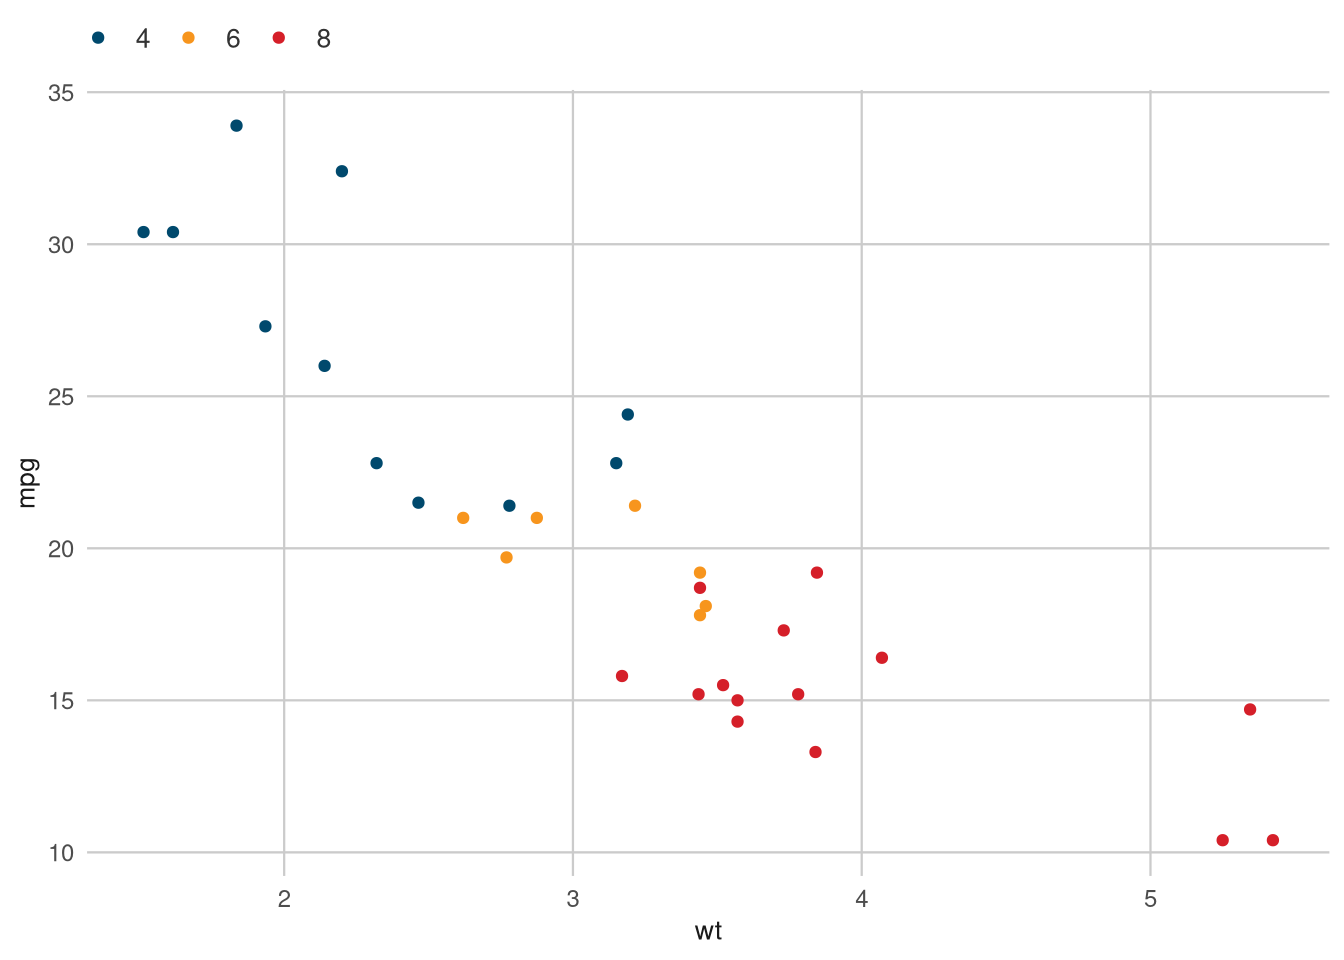
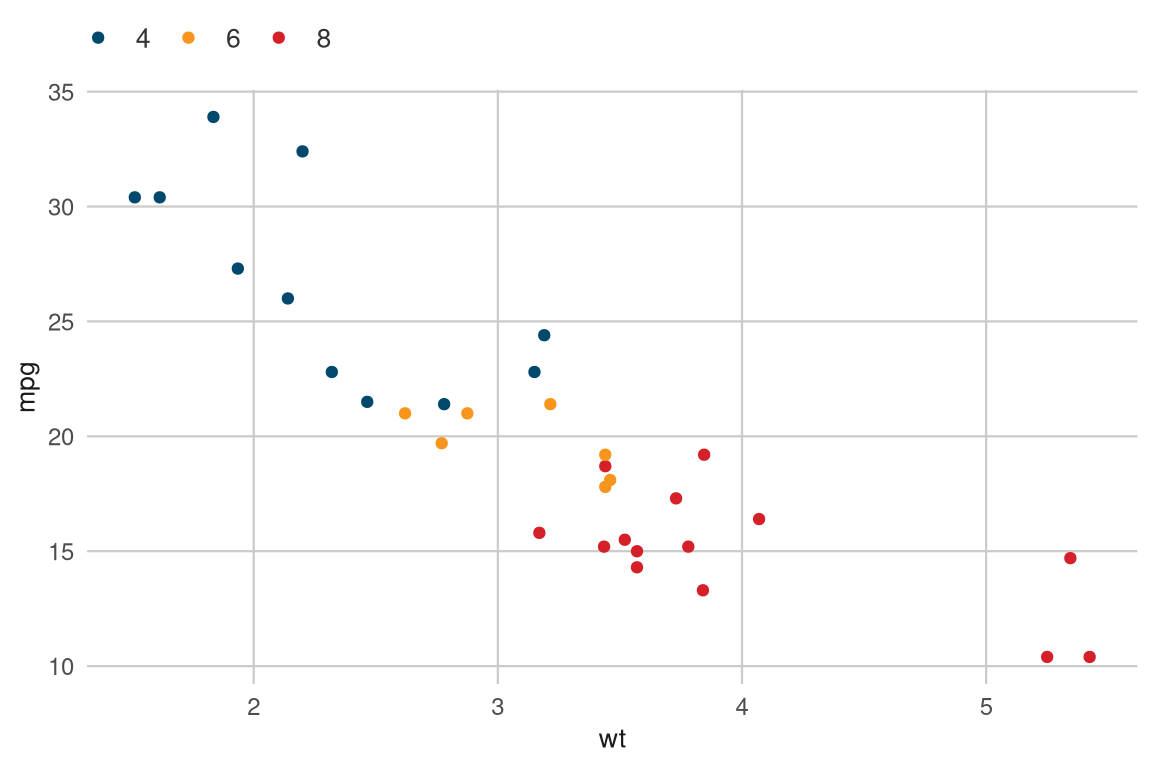
Edita os parametros do htmk

diff --git a/template.html b/template.html
@@ -21,40 +21,6 @@ ul.task-list li input[type="checkbox"] {
   margin: 0 0.8em 0.2em -1em; /* quarto-specific, see https://github.com/quarto-dev/quarto-cli/issues/4556 */ 
   vertical-align: middle;
 }
-/* CSS for syntax highlighting */
-pre > code.sourceCode { white-space: pre; position: relative; }
-pre > code.sourceCode > span { display: inline-block; line-height: 1.25; }
-pre > code.sourceCode > span:empty { height: 1.2em; }
-.sourceCode { overflow: visible; }
-code.sourceCode > span { color: inherit; text-decoration: inherit; }
-div.sourceCode { margin: 1em 0; }
-pre.sourceCode { margin: 0; }
-@media screen {
-div.sourceCode { overflow: auto; }
-}
-@media print {
-pre > code.sourceCode { white-space: pre-wrap; }
-pre > code.sourceCode > span { text-indent: -5em; padding-left: 5em; }
-}
-pre.numberSource code
-  { counter-reset: source-line 0; }
-pre.numberSource code > span
-  { position: relative; left: -4em; counter-increment: source-line; }
-pre.numberSource code > span > a:first-child::before
-  { content: counter(source-line);
-    position: relative; left: -1em; text-align: right; vertical-align: baseline;
-    border: none; display: inline-block;
-    -webkit-touch-callout: none; -webkit-user-select: none;
-    -khtml-user-select: none; -moz-user-select: none;
-    -ms-user-select: none; user-select: none;
-    padding: 0 4px; width: 4em;
-  }
-pre.numberSource { margin-left: 3em;  padding-left: 4px; }
-div.sourceCode
-  {   }
-@media screen {
-pre > code.sourceCode > span > a:first-child::before { text-decoration: underline; }
-}
 </style>
 
 
@@ -108,7 +74,7 @@ pre > code.sourceCode > span > a:first-child::before { text-decoration: underlin
     <div>
     <div class="quarto-title-meta-heading">Data de Publicação</div>
     <div class="quarto-title-meta-contents">
-      <p class="date">3 de outubro de 2023</p>
+      <p class="date">5 de outubro de 2023</p>
     </div>
   </div>
   
@@ -125,15 +91,13 @@ pre > code.sourceCode > span > a:first-child::before { text-decoration: underlin
 <h3 class="anchored" data-anchor-id="heading-2">Heading 2</h3>
 <p>lorem ipsum dolor sit amet consectetur adipiscing elit sed do eiusmod tempor incididunt ut labore et dolore magna aliqua ut enim ad minim veniam quis nostrud exercitation ullamco laboris nisi ut aliquip ex ea commodo consequat dolore eu fugiat nulla pariatur.</p>
 <div class="cell">
-<div class="sourceCode cell-code" id="cb1"><pre class="sourceCode r code-with-copy"><code class="sourceCode r"><span id="cb1-1"><a href="#cb1-1" aria-hidden="true" tabindex="-1"></a><span class="fu">library</span>(ggplot2)</span>
-<span id="cb1-2"><a href="#cb1-2" aria-hidden="true" tabindex="-1"></a><span class="fu">library</span>(onsvplot)</span>
-<span id="cb1-3"><a href="#cb1-3" aria-hidden="true" tabindex="-1"></a></span>
-<span id="cb1-4"><a href="#cb1-4" aria-hidden="true" tabindex="-1"></a><span class="fu">ggplot</span>(mtcars, <span class="fu">aes</span>(wt, mpg)) <span class="sc">+</span></span>
-<span id="cb1-5"><a href="#cb1-5" aria-hidden="true" tabindex="-1"></a>  <span class="fu">geom_point</span>(<span class="fu">aes</span>(<span class="at">color =</span> <span class="fu">factor</span>(cyl))) <span class="sc">+</span></span>
-<span id="cb1-6"><a href="#cb1-6" aria-hidden="true" tabindex="-1"></a>  <span class="fu">theme_onsv</span>() <span class="sc">+</span></span>
-<span id="cb1-7"><a href="#cb1-7" aria-hidden="true" tabindex="-1"></a>  <span class="fu">scale_discrete_onsv</span>()</span></code><button title="Copiar para a área de transferência" class="code-copy-button"><i class="bi"></i></button></pre></div>
 <div class="cell-output-display">
-<p><img src="template_files/figure-html/unnamed-chunk-1-1.png" class="img-fluid" width="672"></p>
+<div class="quarto-figure quarto-figure-center">
+<figure class="figure">
+<figcaption class="figure-caption">plot</figcaption>
+<p><img src="template_files/figure-html/unnamed-chunk-1-1.png" class="img-fluid figure-img" width="576"></p>
+</figure>
+</div>
 </div>
 </div>
 </section>
